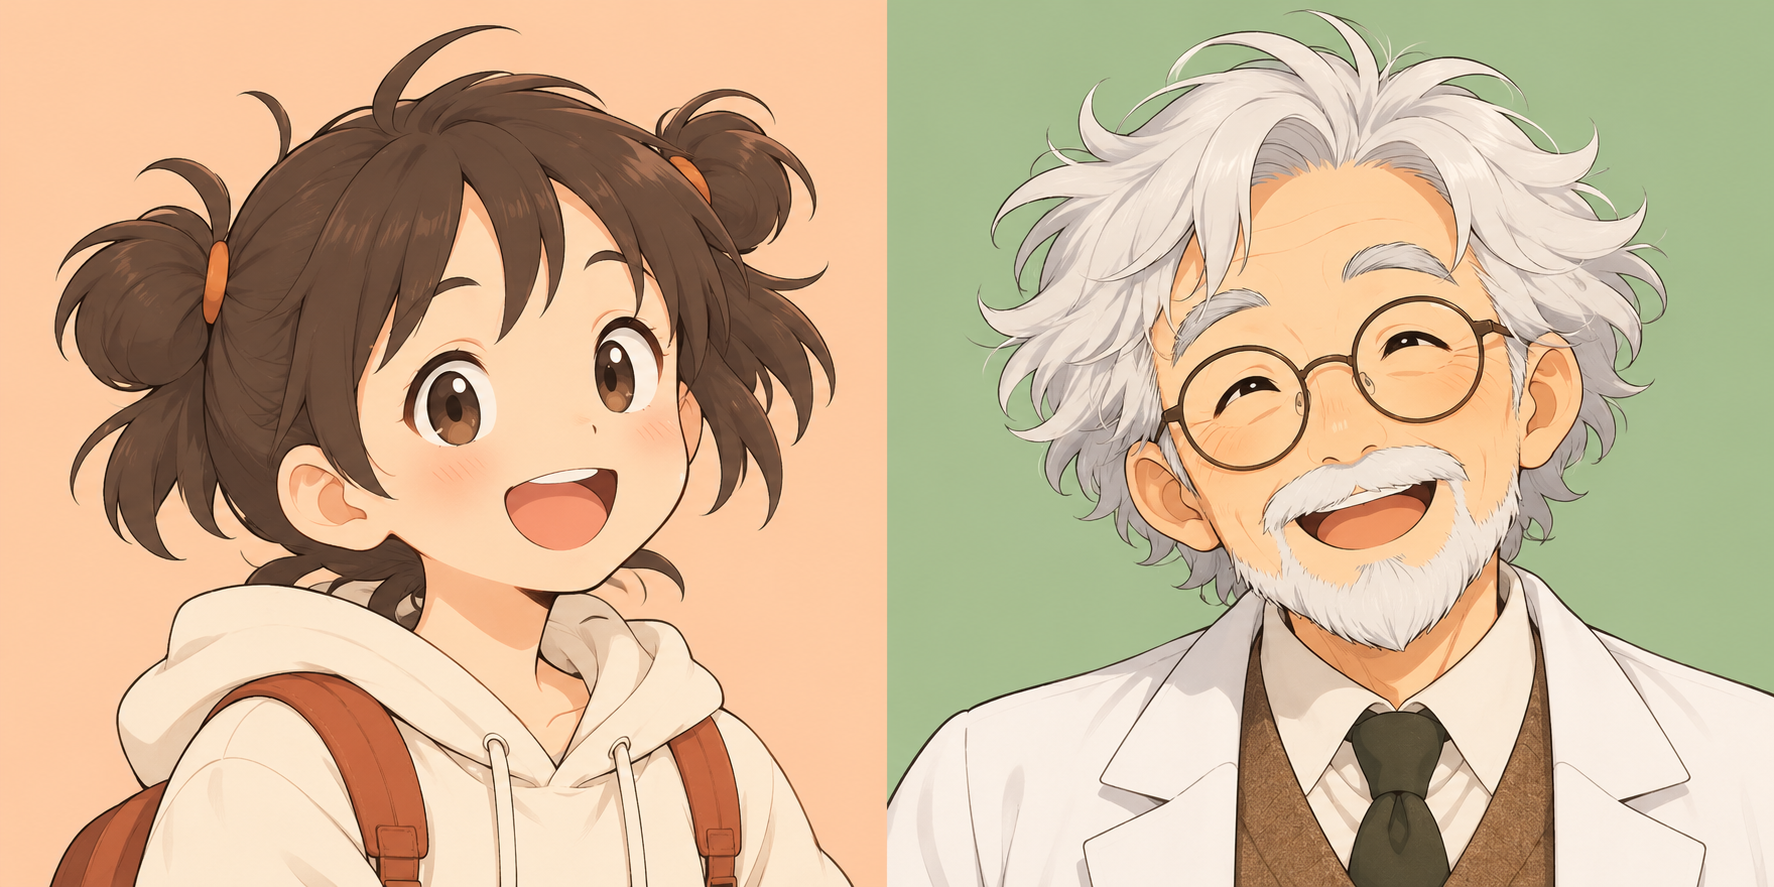
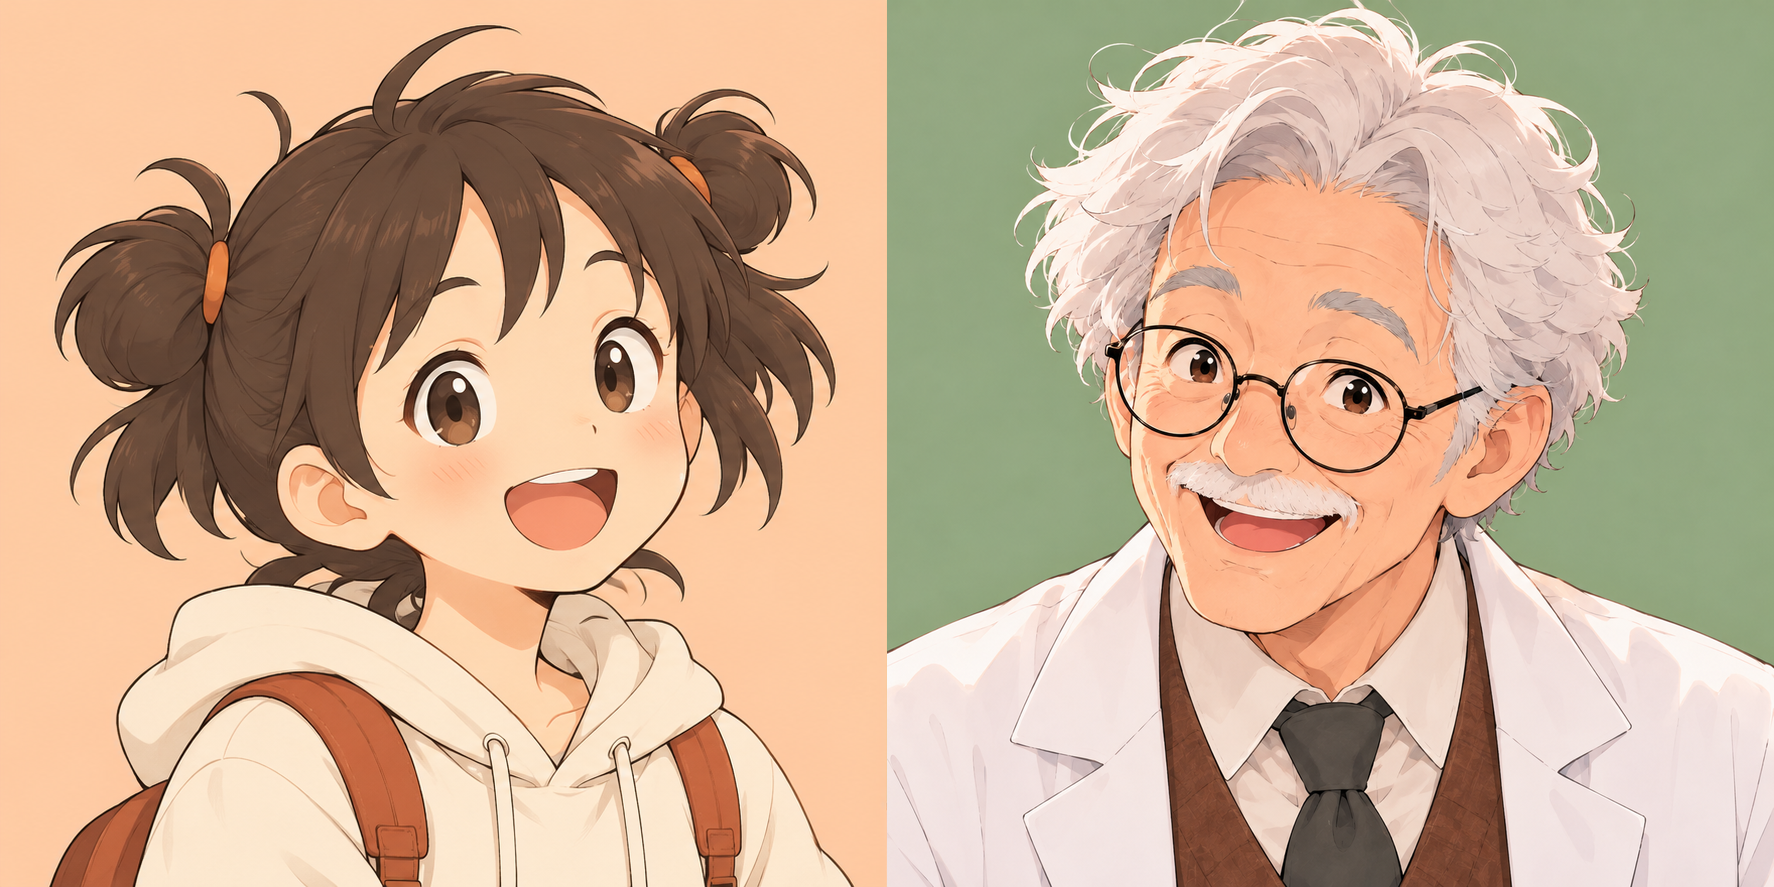
Align wave lesson grandfather art to character reference

Changed region(s): [[0.4961, 0.0, 1.0, 1.0], [0.4961, 0.9436, 0.6201, 1.0], [0.9921, 0.8523, 1.0, 0.8828]]

diff --git a/units/2/parts/2.1/assets/README.md b/units/2/parts/2.1/assets/README.md
@@ -1,8 +1,7 @@
 # 2.1 波的傳播素材
 
-- `dialogue-character-avatars.png` 沿用 3.1／3.2 頁面的小葵與阿公頭像，顯示九段學習內容中的對話。
-- 頭像圖由本專案既有的 `parts/3.1/assets/dialogue-character-avatars.png` 共用；左半為小葵，右半為阿公。頁面以 CSS 裁切對應半幅。
-- `wave-story-opening-outdoor.png` 為 2.1 標題區的開場情境圖；保留小葵和阿公手持的原繩樣式。
+- `dialogue-character-avatars.png` 是 2.1 對話頭像；左半沿用小葵頭像，右半的阿公依照角色設定圖重製。頁面以 CSS 裁切對應半幅。
+- `wave-story-opening-outdoor.png` 為 2.1 標題區的開場情境圖；阿公外觀依角色設定圖修整，保留原場景與手持的粗繩樣式。
 - 學習內容中的繩波動畫與波形示意皆使用綠色細線。
 - `taiwan-satellite-map-3857.png` 是 Esri World Imagery 衛星影像匯出圖，採 EPSG:3857 範圍 `x=13258692.2314–13691756.4896 m`、`y=2451599.0874–2949622.9843 m`，尺寸 720 × 828；較寬的範圍讓臺灣北端完整留白。地圖 SVG 使用相同投影範圍；南投埔里設定觀測點與東部外海震央情境點座標分別為 (23.9666667°N, 120.9691462°E) 與 (23.91°N, 122.15°E)，兩點直線距離約 120.2 km。100 公里比例尺依比例尺所在緯度 21.69°N 的 Web Mercator 地面距離換算。影像來源：Tiles © Esri — Source: Esri, Maxar, Earthstar Geographics, and the GIS User Community.
 - P 波頻率 1.22 Hz 與 S 波週期 0.84 s 參考 2024-04-03 花蓮地震的 TW.SSLB（南投雙龍站）波形。P 值取 BHZ 垂直分量 2024-04-02 23:58:22–23:58:31 UTC 訊號窗的頻譜主峰 1.215 Hz；S 值取 BHE 東西向分量 23:58:33–23:58:43 UTC 訊號窗主峰 1.194 Hz 的倒數 0.838 s，頁面以 1.22 Hz 和 0.84 s 顯示。圖上的波長（P 5 km、S 3 km）是教學模型值，非測站直接量得；地圖的 120 km 也是情境設定，並非此筆地震到 TW.SSLB 的距離。來源：[USGS us7000m9g4](https://earthquake.usgs.gov/earthquakes/eventpage/us7000m9g4/executive)；[EarthScope TW.SSLB 波形](https://service.earthscope.org/fdsnws/dataselect/1/query?net=TW&sta=SSLB&loc=%2A&cha=BH%3F&starttime=2024-04-02T23%3A58%3A00&endtime=2024-04-03T00%3A01%3A00).
